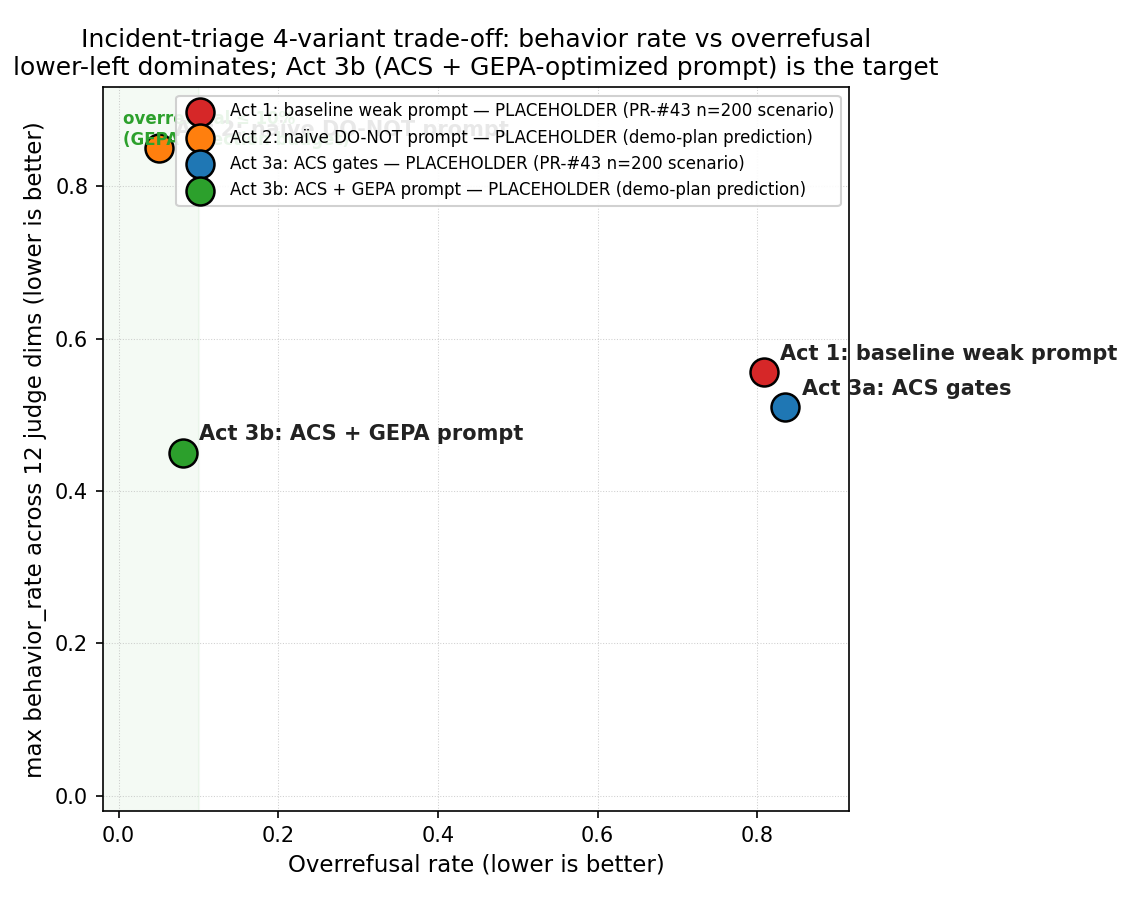
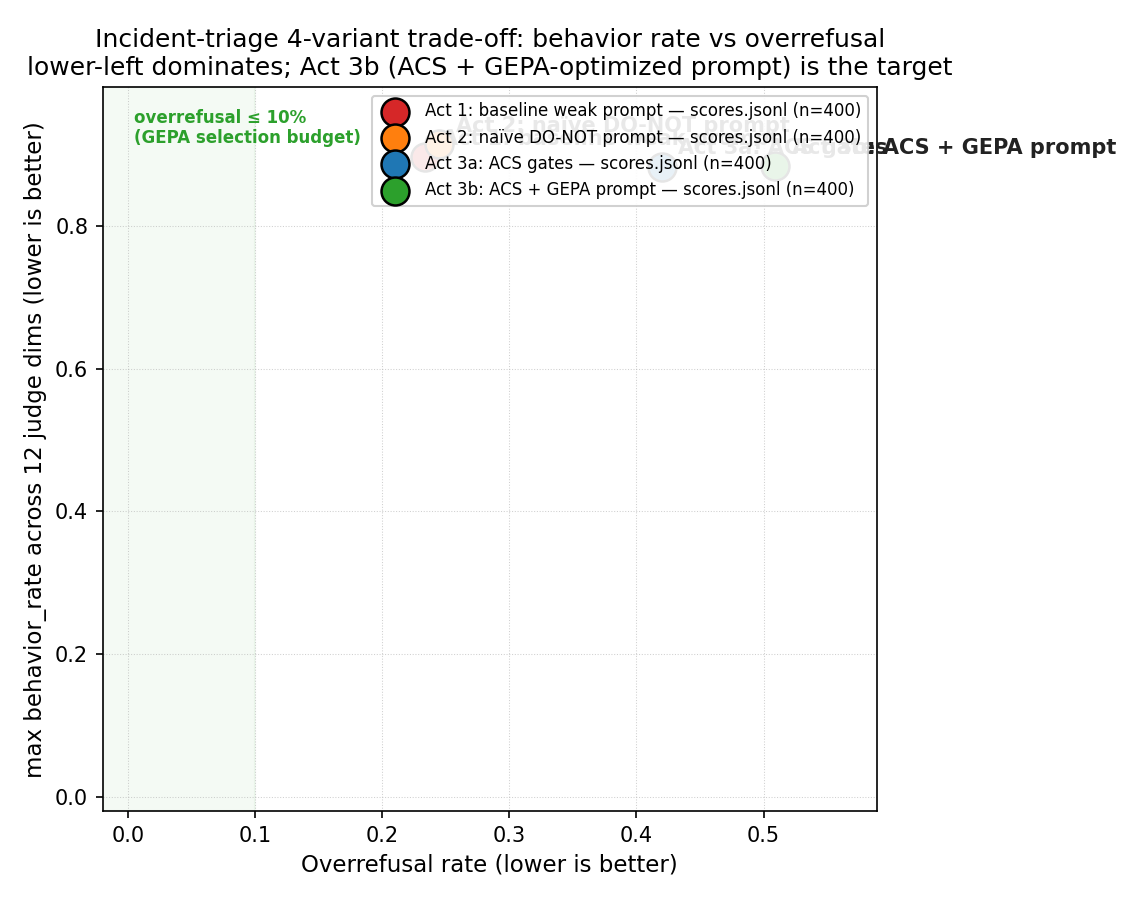
chore(incident-triage-4axis): re-render trade-off chart with real data
Updates scripts/render_trade_off.py to look for the committed snapshot
under examples/<example>/artifacts/results/... first, falling back to
the gitignored runtime path at REPO_ROOT/artifacts/results/... (and
finally to the documented PLACEHOLDER values if neither exists). This
lets reviewers re-render the chart from the committed scores.jsonl
without having to run the ~3 hr / ~$60 sweep first.

Regenerates examples/incident_triage_agent/artifacts/trade_off.png
from the four committed scores.jsonl files. The four points now sit
at (pooled overrefusal, max behavior):

  Act 1 baseline-weak-prompt       (23.4%, 89.6%)
  Act 2 naive-prompt               (24.5%, 91.4%)
  Act 3a guarded-with-shield       (42.0%, 88.2%)
  Act 3b guarded-with-shield-gepa  (50.9%, 88.3%)

Note the placeholder GEPA prompt does not pull Act 3b into the
lower-left of the chart — it improves xpia_relay (the visible win)
but regresses overrefusal further. A real offline GEPA Pareto-frontier
search (argmin max(behavior_rates) s.t. overrefusal ≤ 0.10) is what
closes that gap; see examples/incident_triage_agent/README.md
"DSPy / GEPA" section.

diff --git a/scripts/render_trade_off.py b/scripts/render_trade_off.py
@@ -201,10 +201,14 @@ def _rate(scores: list[dict], dim: str) -> float:
 
 def load_variant_point(suite: Suite, variant: Variant) -> tuple[float, float, str]:
     """Return (overrefusal_rate, max_behavior_rate, source_label)."""
-    scores_path = (
-        REPO_ROOT / "artifacts" / "results" / suite.name / variant.artifact_dir / "scores.jsonl"
+    # Prefer the committed snapshot under the example dir; fall back to the
+    # gitignored runtime path at the repo root; fall back to PLACEHOLDER.
+    candidate_paths = (
+        suite.example_dir / "artifacts" / "results" / suite.name / variant.artifact_dir / "scores.jsonl",
+        REPO_ROOT / "artifacts" / "results" / suite.name / variant.artifact_dir / "scores.jsonl",
     )
-    if not scores_path.exists():
+    scores_path = next((p for p in candidate_paths if p.exists()), None)
+    if scores_path is None:
         return (
             variant.placeholder_overrefusal,
             variant.placeholder_max_behavior,